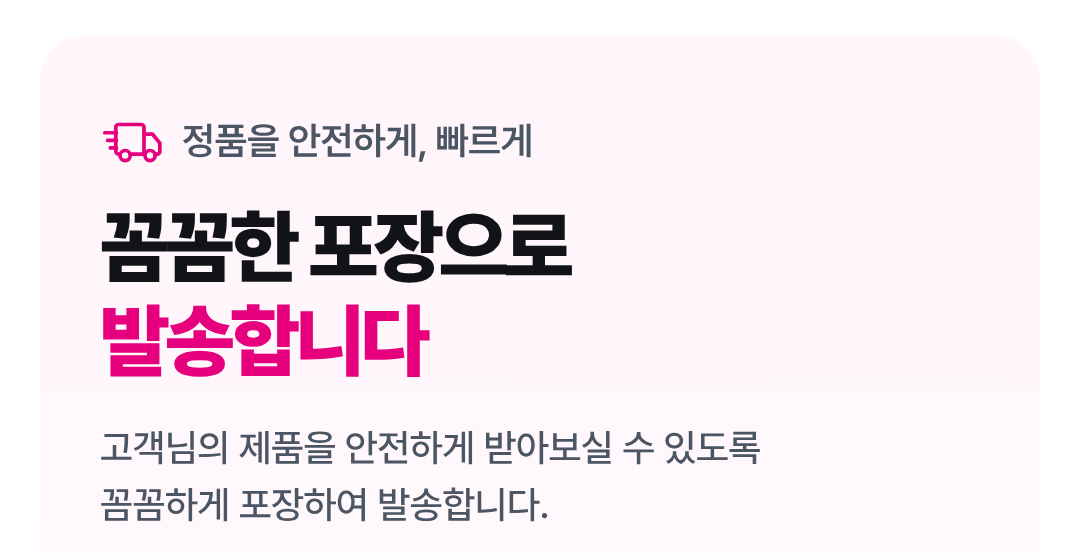
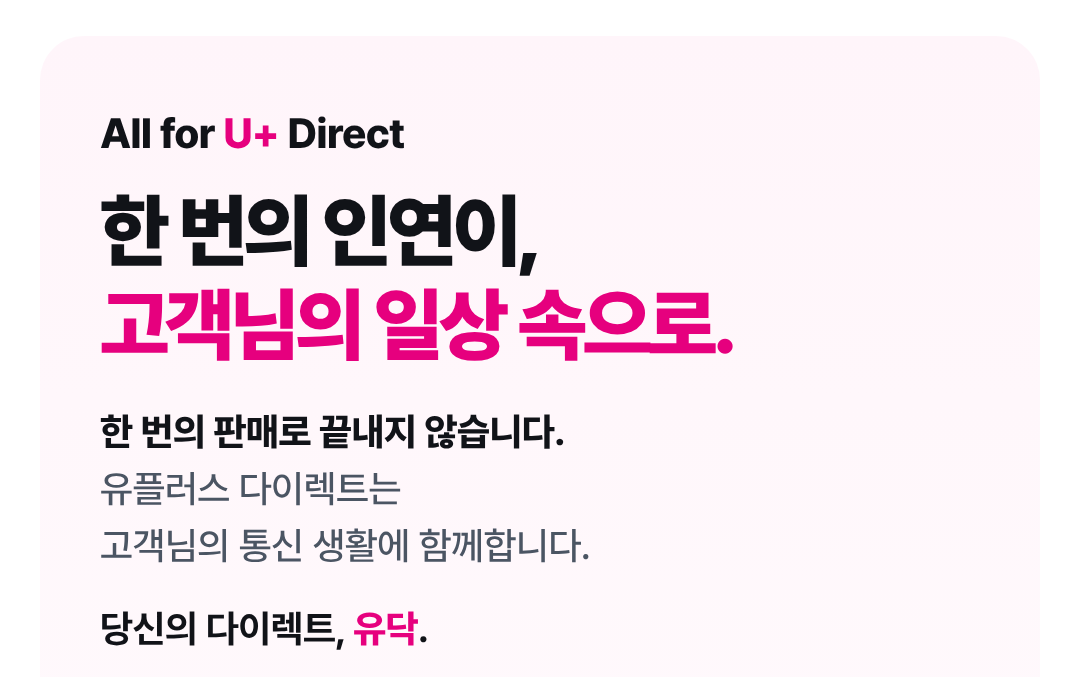
/shop 상세 공통 그림 5차: 맨 아래 칸 문구 교체
- All for U+ Direct / 한 번의 인연이, 고객님의 일상 속으로.
- 한 번의 판매로 끝내지 않습니다. / 유플러스 다이렉트는 고객님의 통신 생활에 함께합니다. / 당신의 다이렉트, 유닥.
- 포장 사진은 그대로

Claude-Session: https://claude.ai/code/session_01UduFChukoFFwk18pDm4WUv

Changed region(s): [[0.0917, 0.1537, 0.7028, 0.953]]

diff --git a/assets/store/store.js b/assets/store/store.js
@@ -99,7 +99,7 @@ var DEFAULT = {
   priceNote:'',
   // 20261026 사장님: 모든 휴대폰 상세 '구매혜택' 칸 맨 아래 공통 그림 (유플러스 다이렉트 소개 · 구매부터 개통까지 · 걱정 없는 점 · 포장)
   // 관리자 상세에서 이 그림을 누르면 바꿀 수 있음 · 끝의 #가로x세로 = 그림 크기 (탭을 눌러 내려갈 때 자리를 미리 잡아 화면이 밀리지 않게)
-  dtc:{ben:['detail/common-01.webp#1080x2181','detail/common-02.webp#1080x1703','detail/common-03.webp#1080x1028','detail/common-04.webp#1080x553','detail/common-05.webp#1080x761']},   // 20261026 4차 (맨 위 'All for U+ Direct / 고객님을 위한 모든 것, / 당신의 다이렉트 유닥')
+  dtc:{ben:['detail/common-01.webp#1080x2181','detail/common-02.webp#1080x1703','detail/common-03.webp#1080x1028','detail/common-04.webp#1080x677','detail/common-05.webp#1080x761']},   // 20261026 5차 (맨 아래 '한 번의 인연이, 고객님의 일상 속으로.')
   stores:[
     {nm:'건대입구역점',addr:'서울시 광진구 능동로 95'},{nm:'군자역점',addr:'서울시 광진구 천호대로 573'},{nm:'신군자점',addr:'서울시 광진구 천호대로 548'},
     {nm:'신자양점',addr:'서울시 광진구 자양번영로 42'},{nm:'성수역점',addr:'서울시 성동구 아차산로 96'},{nm:'용답로데오점',addr:'서울시 성동구 용답동 58-1'},

diff --git a/apple.html b/apple.html
@@ -34,7 +34,7 @@ window.STORE_CFG = {mode:'edit'};
   function boot(){
     document.getElementById('login').remove();
     // /shop 화면(shop.js)을 먼저 → 스토어 엔진 → 관리자 기능 → 가격표 순서로
-    var seq=(window.STORE_VIEW_STORE?[]:['/assets/shop/shop.js?v=20261026g']).concat(['/assets/store/store.js?v=20261026m','/assets/store/store-admin.js?v=20261026g','/assets/store/store-price.js?v=20261026b']);
+    var seq=(window.STORE_VIEW_STORE?[]:['/assets/shop/shop.js?v=20261026g']).concat(['/assets/store/store.js?v=20261026n','/assets/store/store-admin.js?v=20261026g','/assets/store/store-price.js?v=20261026b']);
     (function next(i){ if(i>=seq.length) return; var s=document.createElement('script'); s.src=seq[i]; s.onload=function(){ next(i+1); }; document.body.appendChild(s); })(0);
   }
   function sha(s){ return crypto.subtle.digest('SHA-256', new TextEncoder().encode(s)).then(function(b){ return Array.prototype.map.call(new Uint8Array(b),function(x){return ('0'+x.toString(16)).slice(-2)}).join(''); }); }

diff --git a/galaxy_z8.html b/galaxy_z8.html
@@ -132,7 +132,7 @@ window.STORE_CFG = {mode:'view'};
   <p>워치 · 태블릿 · U+ tv 프리도 함께 구매할 수 있어요. 5분 상담, 서울·경기 매장 방문 수령 가능.</p>
   <p><a href="/about">왜 유플러스 다이렉트인가요?</a></p>
 </div>
-<script src="/assets/store/store.js?v=20261026m"></script>
+<script src="/assets/store/store.js?v=20261026n"></script>
 <!-- 이탈 분석(익명, 개인정보 없음) -->
 <script src="/assets/udak-funnel.js?v=20261026b" data-page="galaxy_z8" defer></script>
 </body>

diff --git a/shop.html b/shop.html
@@ -73,7 +73,7 @@ window.STORE_CFG = {mode:'view', srcTag:'/shop'};
 <body>
 <div id="storeRoot"></div>
 <script src="/assets/shop/shop.js?v=20261026g"></script>
-<script src="/assets/store/store.js?v=20261026m"></script>
+<script src="/assets/store/store.js?v=20261026n"></script>
 <!-- 이탈 분석(익명, 개인정보 없음) — page='shop' 으로 따로 기록 -->
 <script src="/assets/udak-funnel.js?v=20261026b" data-page="shop" defer></script>
 </body>
